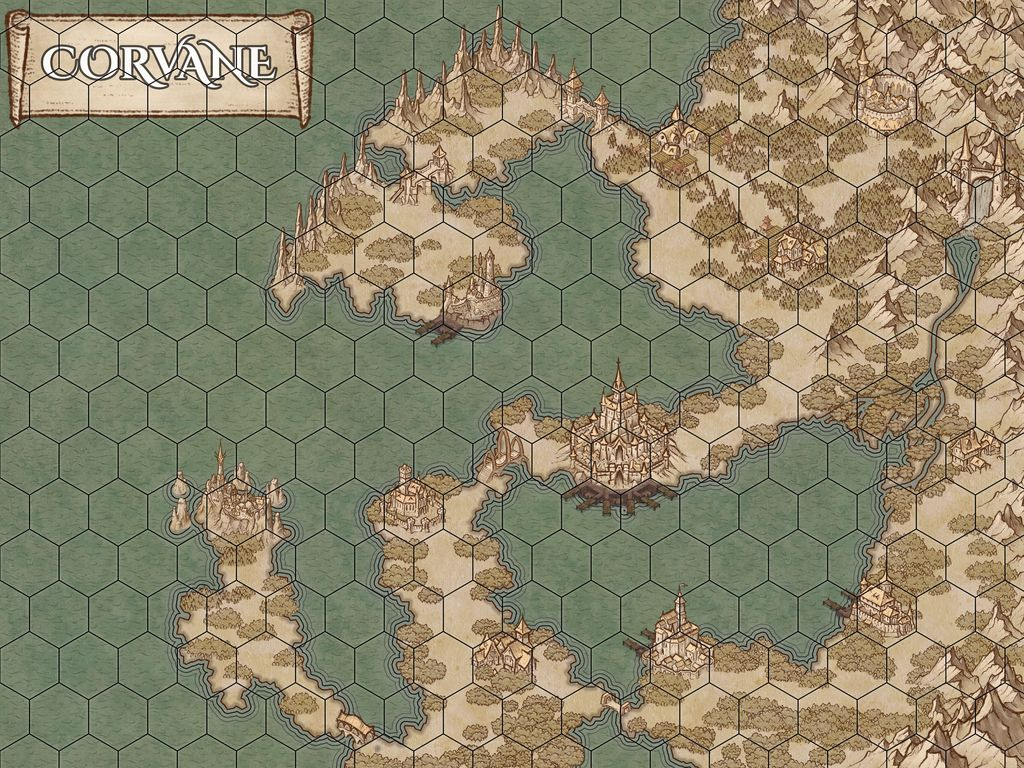
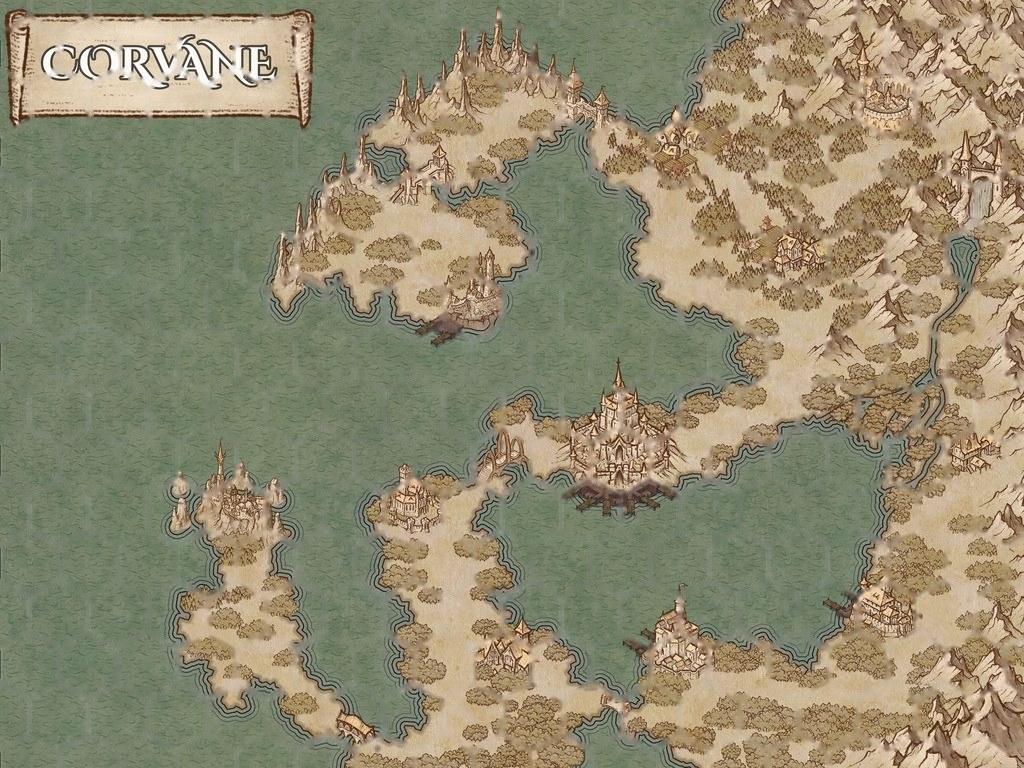
Smaller party flag; fainter hex grid with a Grid toggle
Claude-Session: https://claude.ai/code/session_01M4WdKLR955Z7F5o1w6MzAo

diff --git a/components/HexMap.js b/components/HexMap.js
@@ -43,6 +43,7 @@ export default function HexMap({ initial, isDM, initialMiles, initialParty, init
   const [showTerrain, setShowTerrain] = useState(false);
   const [showRoads, setShowRoads] = useState(true);
   const [showNames, setShowNames] = useState(true);
+  const [showGrid, setShowGrid] = useState(true);
   const [unit, setUnit] = useState(10); // picture units per screen pixel, so place names stay the same size on screen
   const [legendOpen, setLegendOpen] = useState(true);
   useEffect(() => { if (window.innerWidth < 761) setLegendOpen(false); }, []);
@@ -245,6 +246,7 @@ export default function HexMap({ initial, isDM, initialMiles, initialParty, init
           <button className={`tab ${mode === 'travel' ? 'on' : ''}`} onClick={() => setMode('travel')}>Travel</button>
           {isDM && <button className={`tab ${mode === 'paint' ? 'on' : ''}`} onClick={() => setMode('paint')}>Paint terrain</button>}
           <button className={`tab ${showWx ? 'on' : ''}`} onClick={() => setShowWx((v) => !v)}>Weather</button>
+          <button className={`tab ${showGrid ? 'on' : ''}`} onClick={() => setShowGrid((v) => !v)}>Grid</button>
           <button className={`tab ${showNames ? 'on' : ''}`} onClick={() => setShowNames((v) => !v)}>Names</button>
           <button className={`tab ${roadsOn ? 'on' : ''}`} onClick={() => setShowRoads((v) => !v)} disabled={mode === 'paint'}>Roads</button>
           <button className={`tab ${tint ? 'on' : ''}`} onClick={() => setShowTerrain((v) => !v)} disabled={mode === 'paint'}>Terrain colours</button>
@@ -258,7 +260,7 @@ export default function HexMap({ initial, isDM, initialMiles, initialParty, init
 
         <div
           ref={stageRef}
-          className={`hexmap-stage ${mode === 'paint' ? 'painting' : ''}`}
+          className={`hexmap-stage ${mode === 'paint' ? 'painting' : ''} ${showGrid ? '' : 'grid-off'}`}
           onPointerDown={(e) => {
             pts.current.set(e.pointerId, { x: e.clientX, y: e.clientY });
             if (pts.current.size === 2) {
@@ -321,7 +323,7 @@ export default function HexMap({ initial, isDM, initialMiles, initialParty, init
                 {party && (() => {
                   const c = center(party.c, party.r, S);
                   return (
-                    <g pointerEvents="none" className="hx-party">
+                    <g pointerEvents="none" className="hx-party" transform={`translate(${c.x - 9} ${c.y + 10}) scale(.62) translate(${-(c.x - 9)} ${-(c.y + 10)})`}>
                       <path d={`M${c.x - 9},${c.y + 10} L${c.x - 9},${c.y - 20} L${c.x + 11},${c.y - 13} L${c.x - 9},${c.y - 6}`} />
                       <circle cx={c.x - 9} cy={c.y + 10} r="2.4" />
                     </g>

diff --git a/app/globals.css b/app/globals.css
@@ -453,7 +453,9 @@ button.danger { background: #8a1c1c; color: #fff; }
 .hexmap-stage.painting { cursor: crosshair; }
 .hexmap-stage svg { display: block; width: 100%; height: auto; }
 .hx { cursor: pointer; }
-.hx-poly { stroke: transparent; stroke-width: .8; }
+.hx-poly { stroke: rgba(40,28,16,.22); stroke-width: .55; }
+.hexmap-stage.grid-off .hx-poly { stroke: transparent; }
+.hexmap-stage.painting .hx-poly { stroke: rgba(40,28,16,.55); }
 .hx:hover .hx-poly { stroke: var(--wine); stroke-width: 1.6; }
 .hx-glyph { text-anchor: middle; font-size: 13px; fill: rgba(40,30,20,.55); pointer-events: none; }
 .hx-feat { text-anchor: middle; font-size: 13px; fill: #5a1020; pointer-events: none; }

diff --git a/components/HexThumb.js b/components/HexThumb.js
@@ -7,7 +7,7 @@ export default function HexThumb({ party }) {
     <svg className="map-thumb hex-thumb" viewBox={`0 0 ${MAP_W} ${MAP_H}`} role="img" aria-label="Map of Corvane">
       <image href="/world-map-small.jpg" x="0" y="0" width={MAP_W} height={MAP_H} preserveAspectRatio="none" />
       {p && (
-        <g transform={`translate(${p.x} ${p.y})`}>
+        <g transform={`translate(${p.x} ${p.y}) scale(.65)`}>
           <path d="M-40,45 L-40,-95 L60,-60 L-40,-25" fill="#8a1a2e" stroke="#fff" strokeWidth="8" strokeLinejoin="round" />
           <circle cx="-40" cy="45" r="12" fill="#3a2a1a" stroke="#fff" strokeWidth="5" />
         </g>
